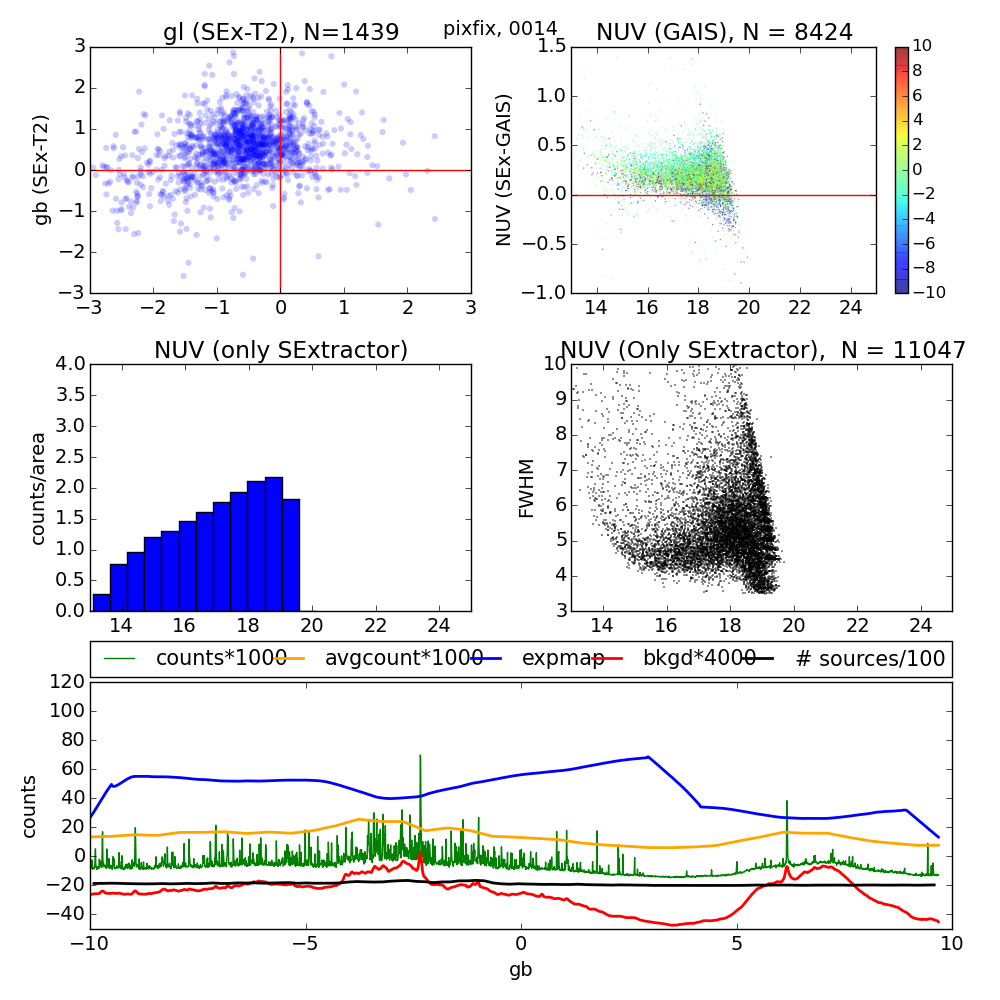
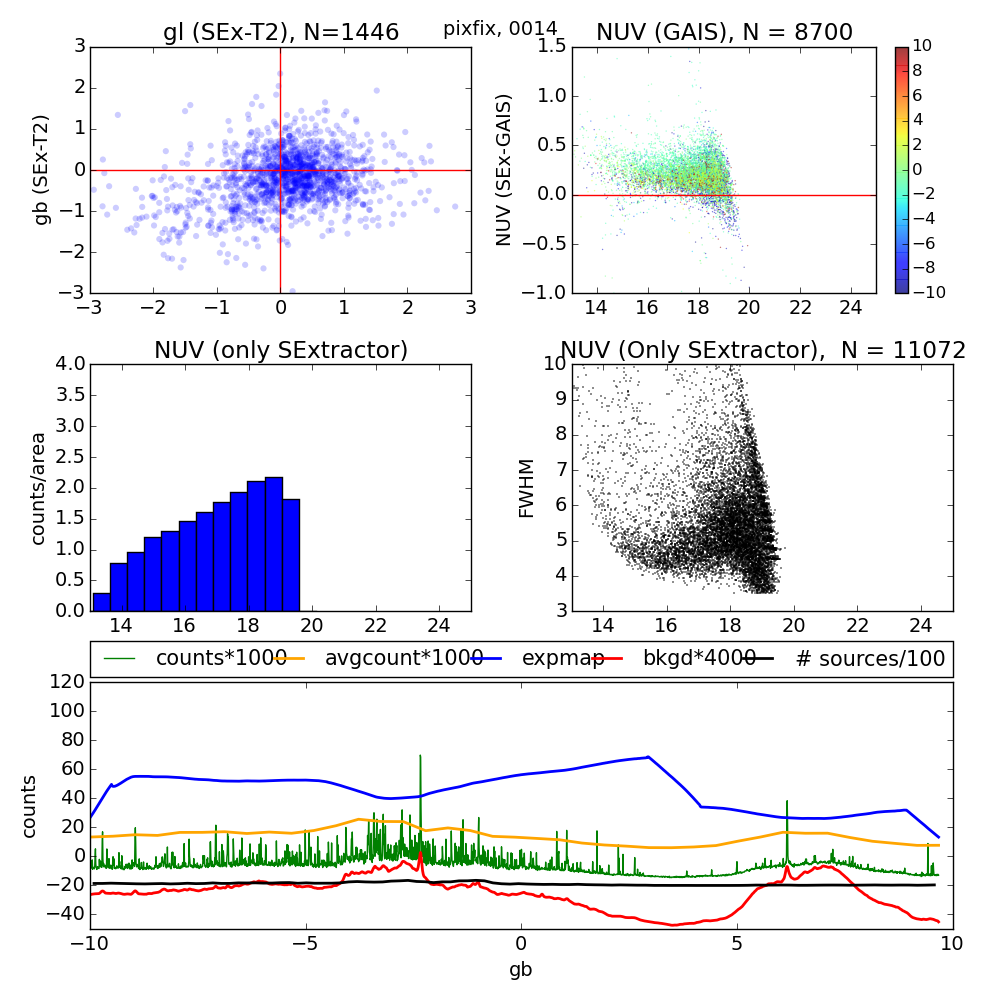
fixed pix2world issue

diff --git a/pipeline/intmaps_sextractor.py b/pipeline/intmaps_sextractor.py
@@ -53,8 +53,8 @@ code = 'det_thresh4_phot_autopar2.5_3.5'
 #########################################################################
 # Decide to run on full or partial scans
 #########################################################################
-run1 = 0
-run2 = 1
+run1 = 1
+run2 = 0
 
 fec = 1
 
@@ -79,7 +79,7 @@ for currregion in skyrange:
     if fec == 0:
         img = fits.open('../Dunmaps/countmaps/count_map_name_'+region+'_gal_sec_in.fits')[0].data
     elif fec == 1:
-        img = fits.open('../fecmaps/03-20/count_map_'+region+'-cal-sec_in_dis.fits')[0].data
+        img = fits.open('../fecmaps/03-27/count_map_'+region+'-cal-sec_in_dis.fits')[0].data
 
     if full == 1:
         im1xmin, im1xmax, im1ymin, im1ymax = 1214, 3950, 3532, 51230
@@ -188,7 +188,7 @@ for currregion in skyrange:
     ypix = data['y_new']
     w = wcs.WCS(hdulist[0].header)
     pixels = np.array([xpix, ypix]).T
-    world = w.wcs_pix2world(pixels, 1)
+    world = w.wcs_pix2world(pixels, 0)
 
     glval, gbval = [], []
 
